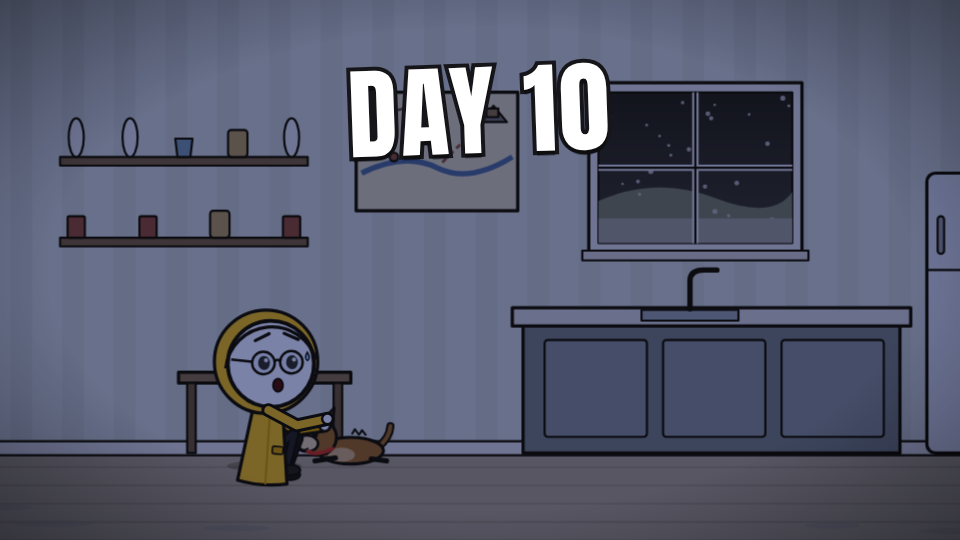
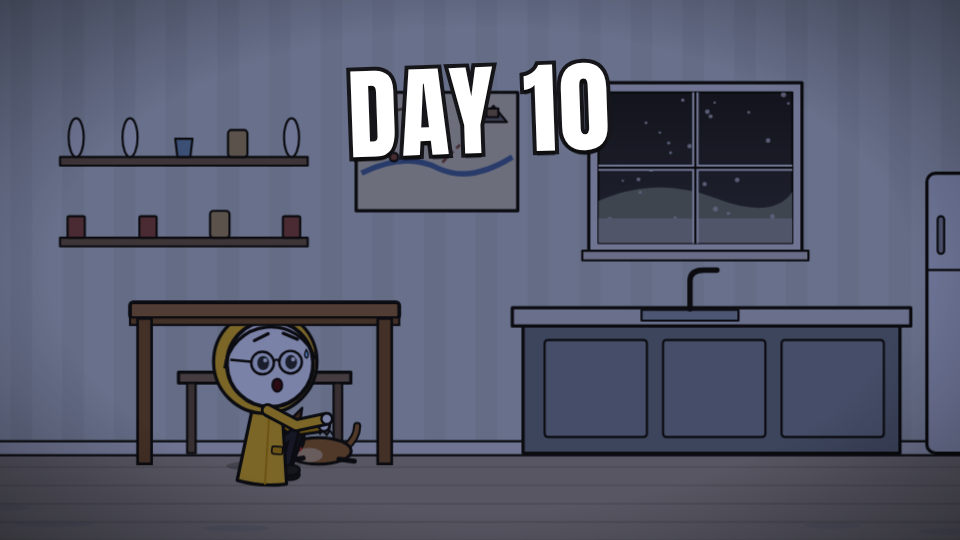
Two-picture cuts for long lines, under-table foreground, episode 2 cuts
Claude-Session: https://claude.ai/code/session_01BrGzttdr1rz6VZzQx9WwBY

Changed region(s): [[0.125, 0.5333, 0.4375, 0.8889]]

diff --git a/src/scenes/Episode.tsx b/src/scenes/Episode.tsx
@@ -1,13 +1,30 @@
 import React from "react";
 import { AbsoluteFill, Audio, Sequence, staticFile, CalculateMetadataFunction } from "remotion";
-import { EpisodeData } from "../types";
+import { EpisodeData, TimedScene } from "../types";
 import { SceneView } from "./Scene";
+import { overlayStart, Overlay } from "./Overlay";
+
+// A long line can carry two pictures: scene.cut = { on: "word" | at: seconds, ...fields to change }.
+// The voice is untouched; the picture cuts to the second angle when that word is spoken.
+const splitScene = (s: TimedScene): TimedScene[] => {
+  if (!s.cut) return [s];
+  const { on, at, ...changes } = s.cut;
+  const cutF = Math.max(20, Math.min(s.frames - 20, overlayStart({ type: "tip", on, at } as Overlay, s.text, s.frames) + 3));
+  const ovs = Array.isArray(s.overlay) ? s.overlay : s.overlay ? [s.overlay] : [];
+  const starts = ovs.map((o) => overlayStart(o, s.text, s.frames));
+  const a: TimedScene = { ...s, frames: cutF, overlay: ovs.filter((_, i) => starts[i] < cutF), cut: undefined };
+  const b: TimedScene = {
+    ...s, ...changes, from: s.from + cutF, frames: s.frames - cutF, day_title: null, cut: undefined,
+    overlay: ovs.flatMap((o, i) => (starts[i] >= cutF ? [{ ...o, on: undefined, at: (starts[i] - cutF) / 30 }] : [])),
+  } as TimedScene;
+  return [a, b];
+};
 
 // The whole episode: every scene plays for exactly its narration length, then the next one cuts in.
 export const Episode: React.FC<EpisodeData> = ({ scenes, audio }) => (
   <AbsoluteFill style={{ background: "#000" }}>
-    {scenes.map((s) => (
-      <Sequence key={s.id} from={s.from} durationInFrames={s.frames} name={`${s.id}: ${s.text.slice(0, 40)}`}>
+    {scenes.flatMap(splitScene).map((s, k) => (
+      <Sequence key={`${s.id}-${k}`} from={s.from} durationInFrames={s.frames} name={`${s.id}: ${s.text.slice(0, 40)}`}>
         <SceneView s={s} frames={s.frames} />
       </Sequence>
     ))}

diff --git a/src/scenes/Scene.tsx b/src/scenes/Scene.tsx
@@ -96,6 +96,15 @@ export const SceneView: React.FC<{ s: SceneData | TimedScene; frames: number }> 
           {s.character !== false && <g transform={`translate(${cx} ${floor})`}>
             <Stickman pose={s.pose} face={s.face} f={f} props={props} facing={facing} scale={sc} seed={s.id * 3 + 1} />
           </g>}
+          {s.under_table && (
+            <g>
+              {/* a big table in FRONT of the character so he is clearly underneath it */}
+              <rect x={cx - 250} y={floor - 300} width={500} height={30} rx={6} fill="#a8774d" stroke={INK} strokeWidth={7} />
+              <rect x={cx - 250} y={floor - 272} width={500} height={14} fill="#8a5d39" stroke={INK} strokeWidth={4} />
+              <rect x={cx - 236} y={floor - 270} width={26} height={270} fill="#8a5d39" stroke={INK} strokeWidth={5} />
+              <rect x={cx + 210} y={floor - 270} width={26} height={270} fill="#8a5d39" stroke={INK} strokeWidth={5} />
+            </g>
+          )}
           {(ex.ash ?? 0) > 0 && place.outdoor && <Falling f={f} kind="ash" amount={ex.ash!} seed={`s${s.id}`} />}
           {ex.rain && <Falling f={f} kind="rain" amount={1} />}
           {ex.snow && <Falling f={f} kind="snow" amount={1} />}

diff --git a/src/types.ts b/src/types.ts
@@ -41,7 +41,9 @@ export interface SceneData {
   sfx: string[];
   // optional staging
   character?: boolean;
-  overlay?: Overlay | Overlay[];   // on-screen numbers, rules, tips… (see src/scenes/Overlay.tsx)     // false = scene without the main character (establishing shots)
+  overlay?: Overlay | Overlay[];
+  under_table?: boolean;   // draw a big table in front: the character hides underneath
+  cut?: Partial<SceneData> & { on?: string; at?: number };  // second picture inside a long line (voice unchanged)   // on-screen numbers, rules, tips… (see src/scenes/Overlay.tsx)     // false = scene without the main character (establishing shots)
   dog?: DogPose;
   x?: number;              // character x in the place (0–1920); default = the place's spot
   x_to?: number;

diff --git a/scripts/pipeline.py b/scripts/pipeline.py
@@ -114,8 +114,9 @@ def cmd_check(n, quiet=False):
         if s.get("day_title") and s.get("shot") != "wide":
             warn.append(f"scene {sid} has a day title: use a wide shot so the title doesn't cover the face")
         d = s.get("duration") or estimate(s["text"])
+        pic = d / 2 if s.get("cut") else d  # a cut = two pictures in one line
         limit = 3.5 if t < 60 else 5.5
-        if d > limit:
+        if pic > limit:
             warn.append(f"scene {sid} lasts {d:.1f}s at {t:.0f}s in (aim ≤ {limit - 0.5:.0f}s): consider splitting it")
         t += d + GAP
     if not quiet:

diff --git a/CLAUDE.md b/CLAUDE.md
@@ -47,6 +47,8 @@ network proxy adds the key; on your own computer set `ELEVENLABS_API_KEY`.
     "x": 900, "x_to": 1300, "y": 760, "facing": "right", // optional staging (y = feet height, e.g. on a bed)
     "character": false,                                 // optional: shot without the main character
     "focus": "dog",                                     // optional: camera on the dog, or [x, y] = on a spot (e.g. a map)
+    "cut": {"on": "word", "shot": "closeup"},           // optional: a 2nd picture inside a long line (voice unchanged)
+    "under_table": true,                                // optional: big table drawn in front (hiding under it)
     "dog_x": 930, "dog_y": 576,                         // optional dog position (930/576 = living-room windowsill)
     "overlay": {"type": "stat", "text": "31 GALLONS", "icon": "drop", "on": "Thirty"},  // optional, or a list
     "duration": 2.41, "audio": "voice/scene_001.wav"    // written by the voice step
@@ -80,8 +82,8 @@ network proxy adds the key; on your own computer set `ELEVENLABS_API_KEY`.
 ## Quality rules (check every episode)
 - Voice first: every scene lasts exactly its narration (+0.2 s gap). No gap over 0.5 s; pauses
   inside a line are cut to 0.3 s by `scripts/voice.py`.
-- Pacing: first minute a new picture every 2–3 s, then every 3–5 s (`check` warns). Split long
-  sentences into two scenes.
+- Pacing: first minute a new picture every 2–3 s, then every 3–5 s (`check` warns). Before the voice,
+  split long sentences into two scenes; after the voice, add a `cut` instead (no re-voicing needed).
 - The character is always doing something; vary pose/shot/camera between neighbouring scenes.
 - Arms never cross the head (the rig enforces it). Day titles only on wide shots.
 - Every number, rule and tip the narrator says gets an on-screen overlay.
